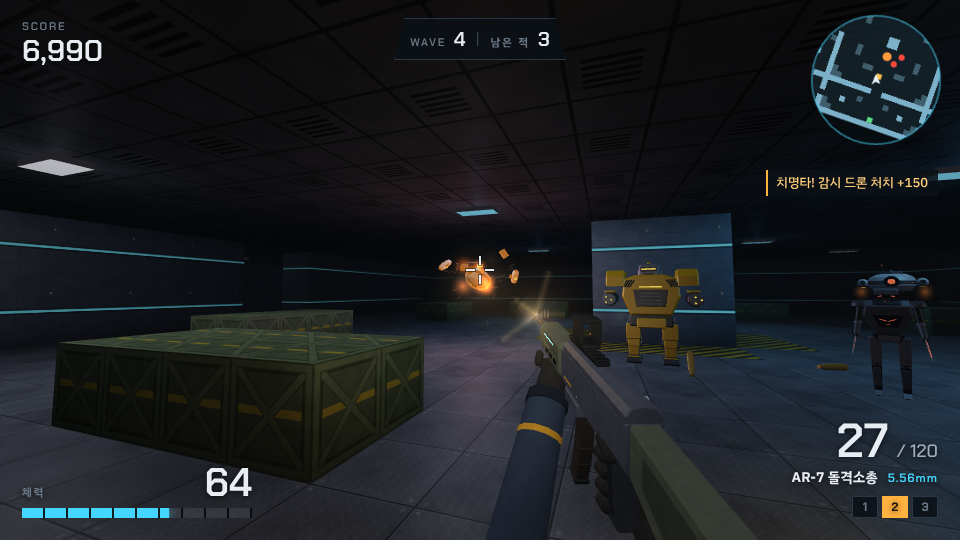
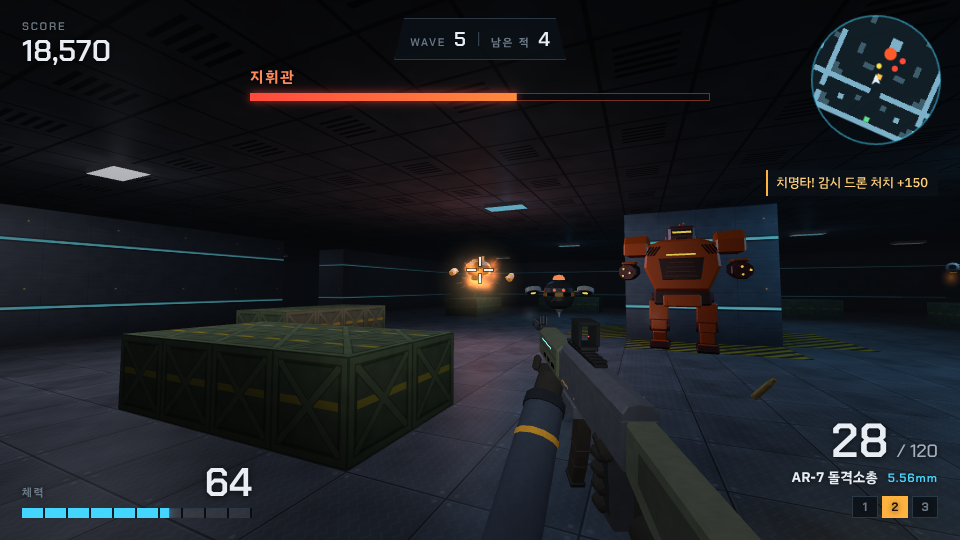
SECTOR ZERO: 웨이브 난이도 다듬기와 README 스크린샷 새로 찍기
봇 8판을 다시 돌려 보니 대부분 웨이브 4에서 쓰러져서 자폭 드론·지휘관을 보기 어려웠어요.

- 웨이브마다 적 체력 +7% → +6%, 공격력 +5% → +4%
- 일반 적이 아이템을 떨어뜨릴 확률 20% → 22%
- 쓰지 않던 연쇄 폭발 통계 값 정리
- README: 파일 설명에 강화·자폭 드론·지휘관, 전투·첫 화면 스크린샷 새로

Claude-Session: https://claude.ai/code/session_012S3ra2n1avHVDAJgyXah2c

diff --git a/fps/js/game.js b/fps/js/game.js
@@ -914,10 +914,7 @@
       const l = Math.hypot(o.x - x, o.z - z) || 1;
       if (damageEnemy(o, def.blastEnemy * lerp(1, 0.5, od / def.blast), false, (o.x - x) / l, (o.z - z) / l)) chain++;
     }
-    if (chain) {
-      stats.chains = (stats.chains || 0) + chain;
-      hud.feed('연쇄 폭발! 적 ' + chain + '기 처치', 'crit');
-    }
+    if (chain) hud.feed('연쇄 폭발! 적 ' + chain + '기 처치', 'crit');
   }
 
   function enemyShoot(e, def, plan) {
@@ -1068,7 +1065,7 @@
       });
     }
     // 아이템 떨어뜨리기
-    const dropChance = def.boss ? 0 : e.type === 'brute' ? 0.9 : e.type === 'bomber' ? 0.1 : 0.2;
+    const dropChance = def.boss ? 0 : e.type === 'brute' ? 0.9 : e.type === 'bomber' ? 0.1 : 0.22;
     if (Math.random() < dropChance) {
       const needHealth = player.hp < player.maxHp * 0.6;
       const kind = needHealth ? (Math.random() < 0.7 ? 'health' : 'ammo') : Math.random() < 0.35 ? 'health' : 'ammo';

diff --git a/fps/js/rules.js b/fps/js/rules.js
@@ -217,8 +217,8 @@
       bosses,
       maxAlive: Math.min(14, 5 + Math.floor(n * 0.8)),
       spawnGap: Math.max(0.45, 1.4 - n * 0.08),
-      hpMul: 1 + 0.07 * (n - 1),
-      dmgMul: 1 + 0.05 * (n - 1),
+      hpMul: 1 + 0.06 * (n - 1),
+      dmgMul: 1 + 0.04 * (n - 1),
       speedMul: 1 + Math.min(0.25, 0.02 * (n - 1)),
       clearBonus: 250 * n,
     };
